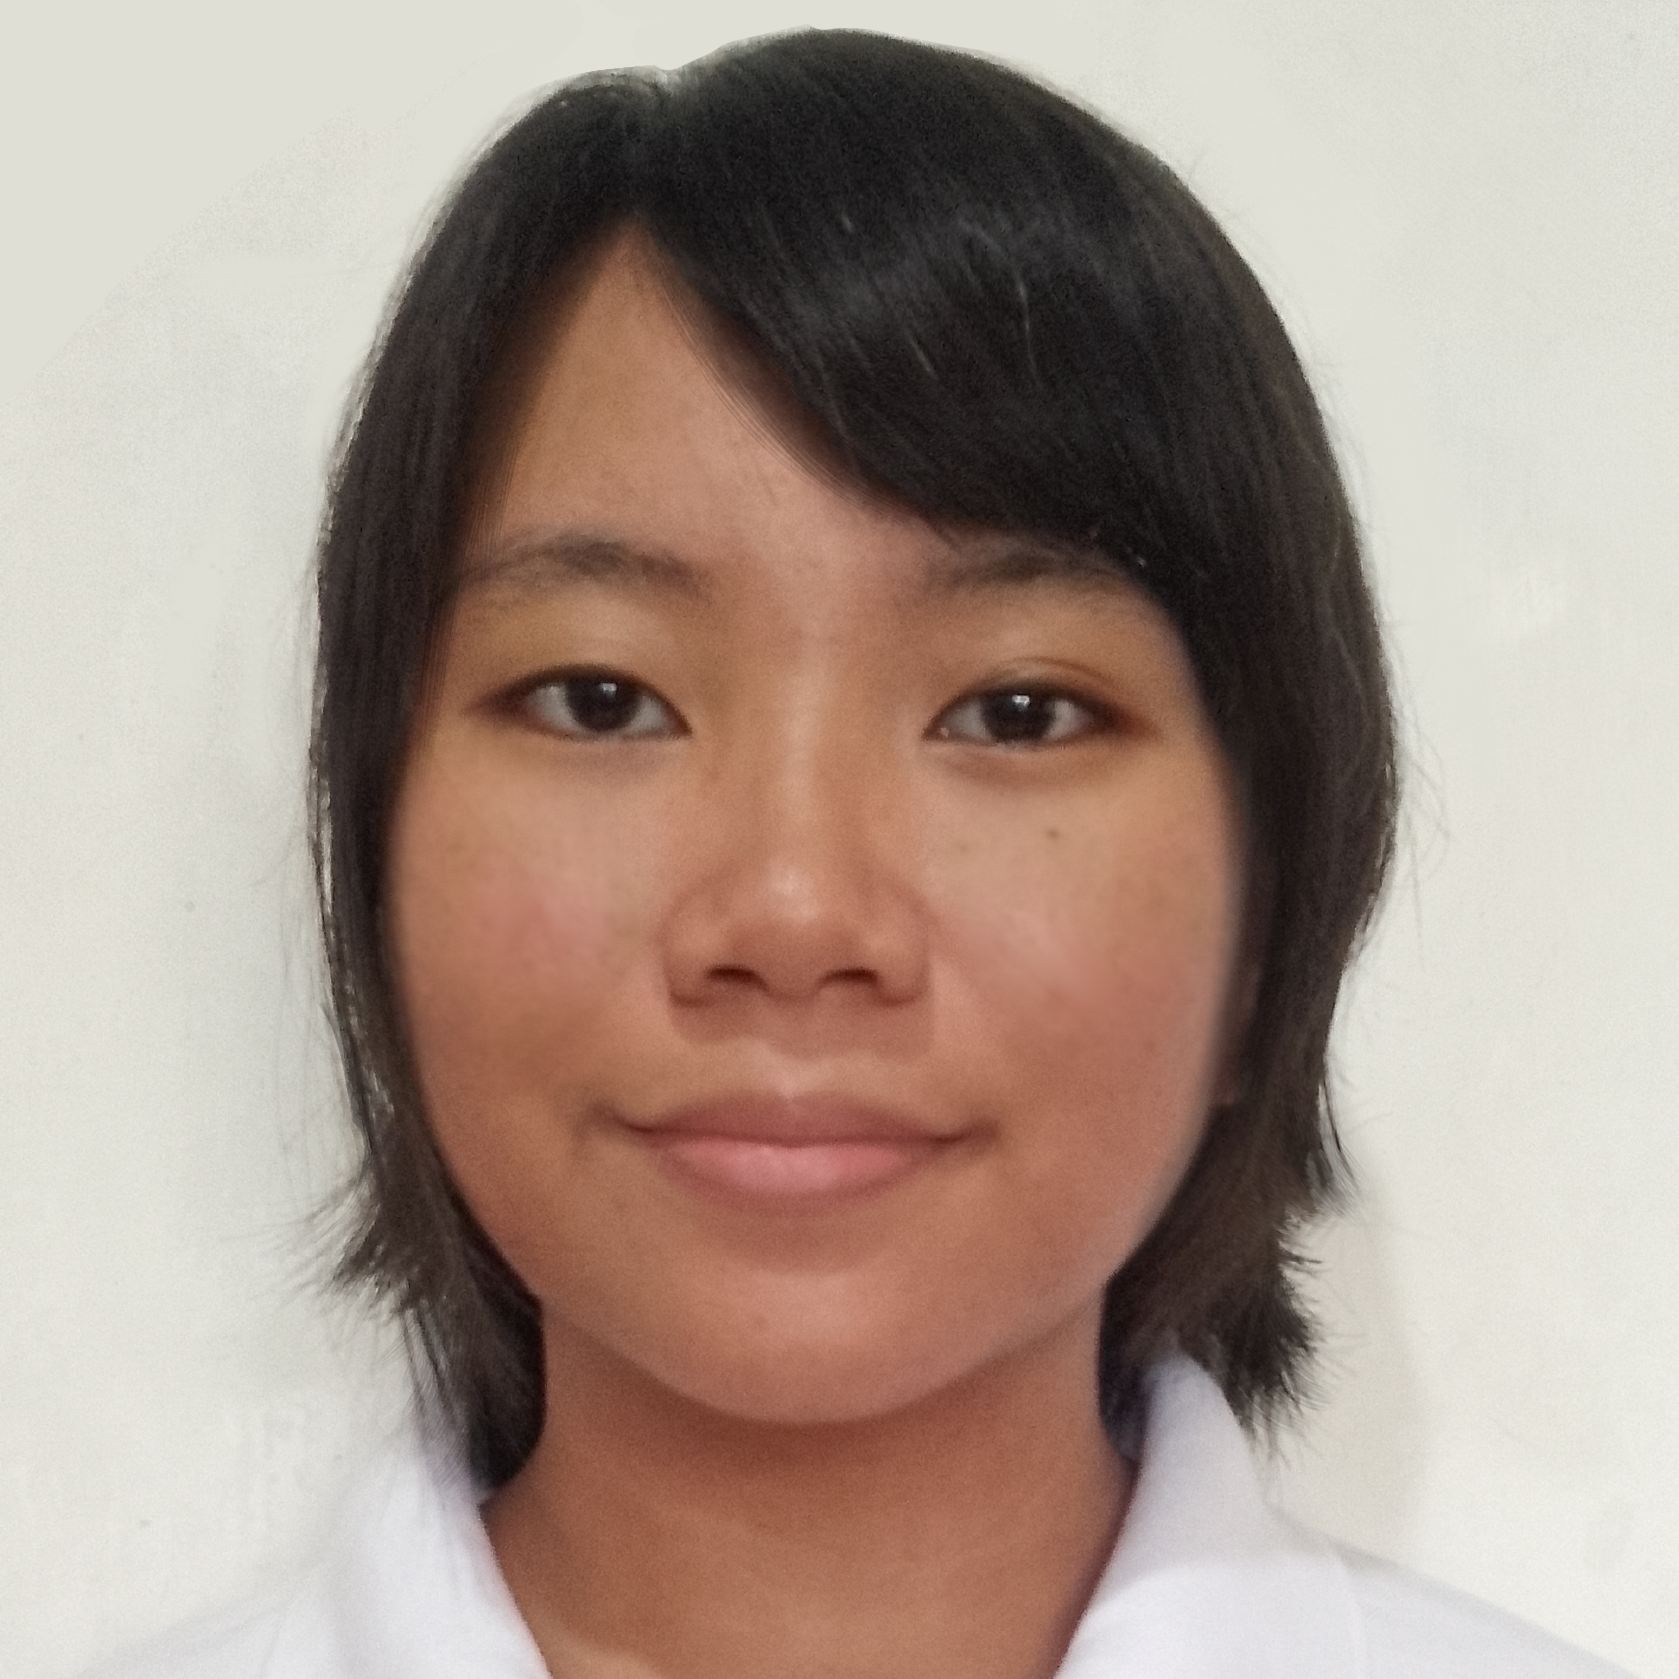
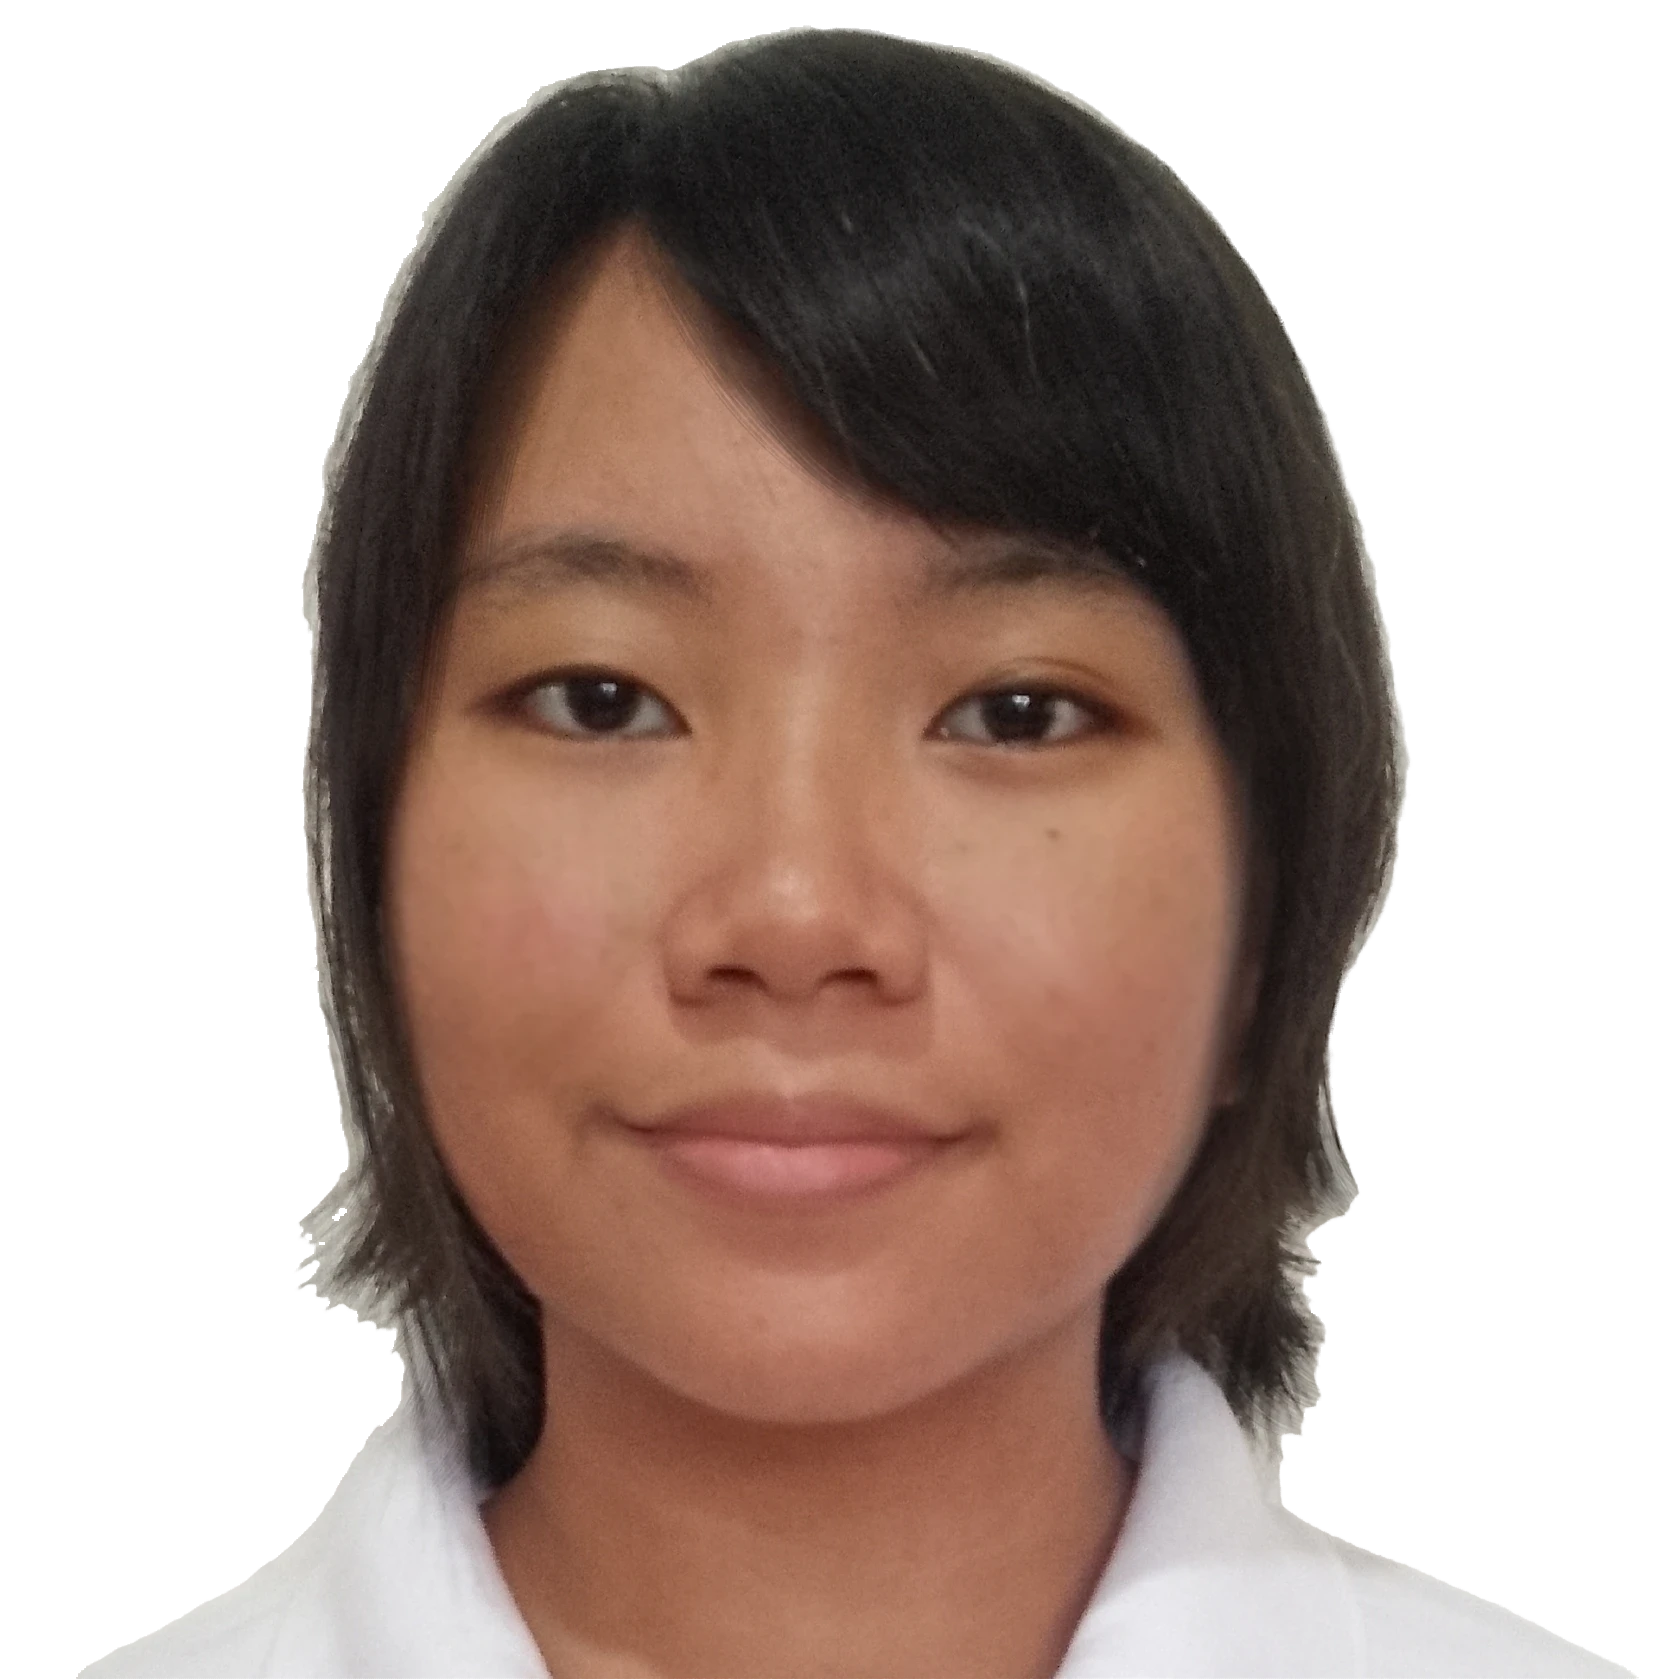
nav

diff --git a/about.html b/about.html
@@ -324,18 +324,23 @@
     <div class="landing-container">
       
       <!-- Top Navigation -->
-      <nav class="landing-nav">
+       <nav class="landing-nav">
         <div class="landing-logo">
-          <img src="ASSETS/logo.png" alt="">  READEFINE
+           <img src="ASSETS/logo.png"> READEFINE
         </div>
         <ul class="landing-nav-links">
-          <li><a href="index.html">Home</a></li>
-          <li><a href="about.html" class="active" aria-current="page">About</a></li>
+          <li><a href="index.html" class="active" aria-current="page">Home</a></li>
+          <li><a href="about.html">About us</a></li>
           <li><a href="exams.html" data-auth-required="true">Exams</a></li>
           <li><a href="dashboard.html#progress" data-auth-required="true">Progress</a></li>
           <li><a href="levels.html" data-auth-required="true">Lessons</a></li>
         </ul>
         
+        <!-- Log In / Profile Trigger -->
+        <div id="authNavButton" onclick="handleAuthNavClick()" role="button" tabindex="0" style="display: flex; align-items: center; gap: 8px; cursor: pointer; background: rgba(255, 255, 255, 0.6); padding: 8px 16px; border-radius: 20px; border: 1px solid var(--border-subtle, #E2E8F0); transition: all 0.2s;">
+          <span id="authNavLabel" style="font-size: 0.9rem; font-weight: 700; color: var(--deep-blue, #174B85);">Log In</span>
+          <div class="profile-icon" style="margin: 0;">👤</div>
+        </div>
       </nav>
 
       <!-- Center Hero Oblong Card -->

diff --git a/progress.js b/progress.js
@@ -10,31 +10,21 @@ function authHeaders() {
   };
 }
 
-async function progressResponse(res, fallbackMessage) {
-  const data = await res.json();
-  if (res.status === 401) {
-    localStorage.removeItem("accessToken");
-    localStorage.removeItem("user");
-    localStorage.removeItem("readefine_logged_in");
-    localStorage.removeItem("readefine_has_account");
-    throw new Error("Your session expired. Please log in again.");
-  }
-  if (!res.ok) throw new Error(data.error || fallbackMessage);
-  return data;
-}
-
 async function saveProgress(lessonId, completed, score) {
   const res = await fetch(API + "/progress", {
     method: "POST",
     headers: authHeaders(),
     body: JSON.stringify({ lessonId, completed, score }),
   });
-  return progressResponse(res, "Could not save progress.");
+  const data = await res.json();
+  if (!res.ok) throw new Error(data.error || "Could not save progress.");
+  return data;
 }
 
 async function loadProgress() {
   const res = await fetch(API + "/progress", { headers: authHeaders() });
-  const data = await progressResponse(res, "Could not load progress.");
+  const data = await res.json();
+  if (!res.ok) throw new Error(data.error || "Could not load progress.");
   if (!Array.isArray(data.progress)) throw new Error("The progress response was invalid.");
   return data.progress;
 }
